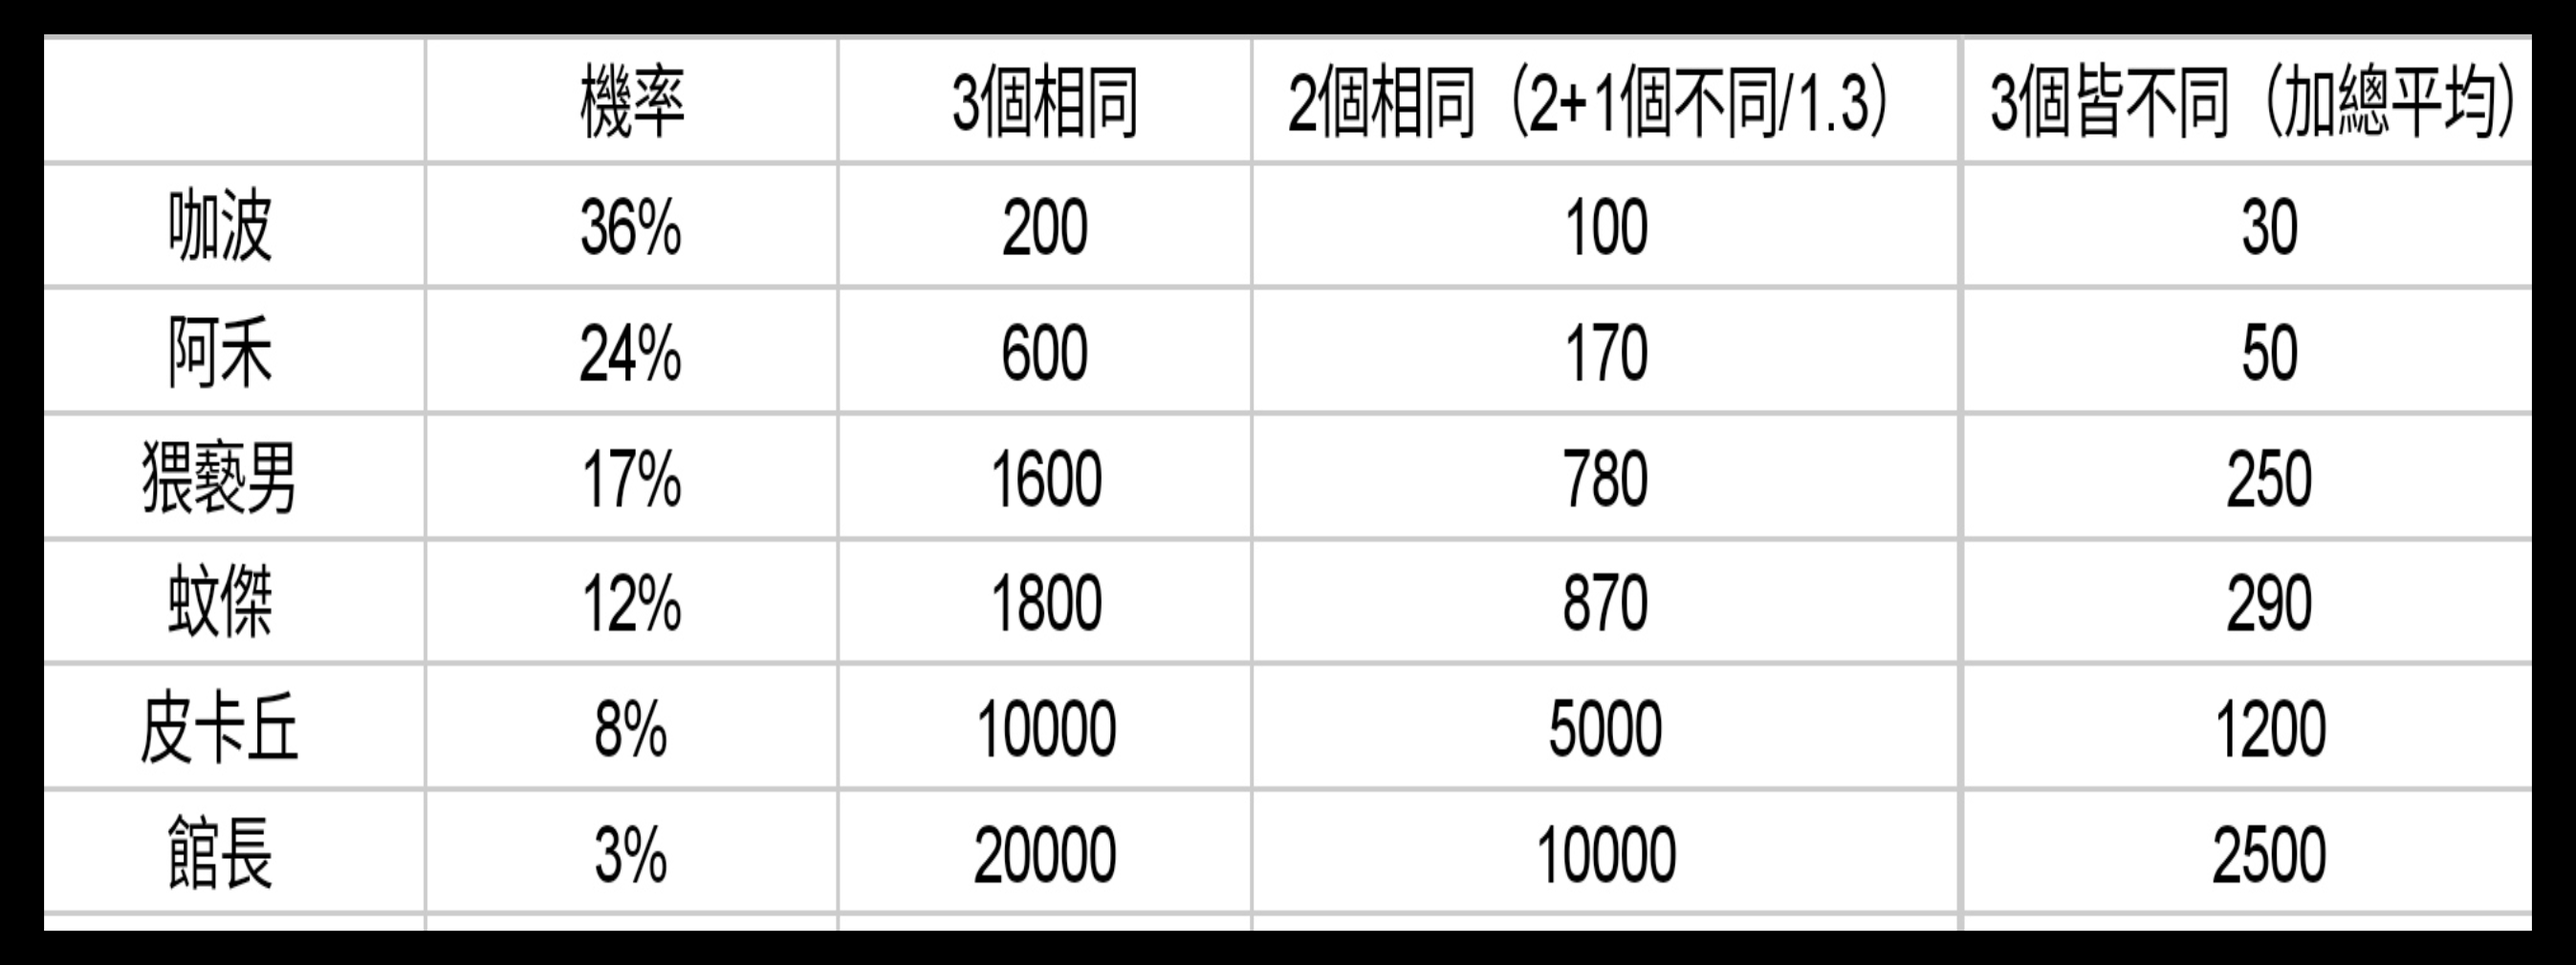
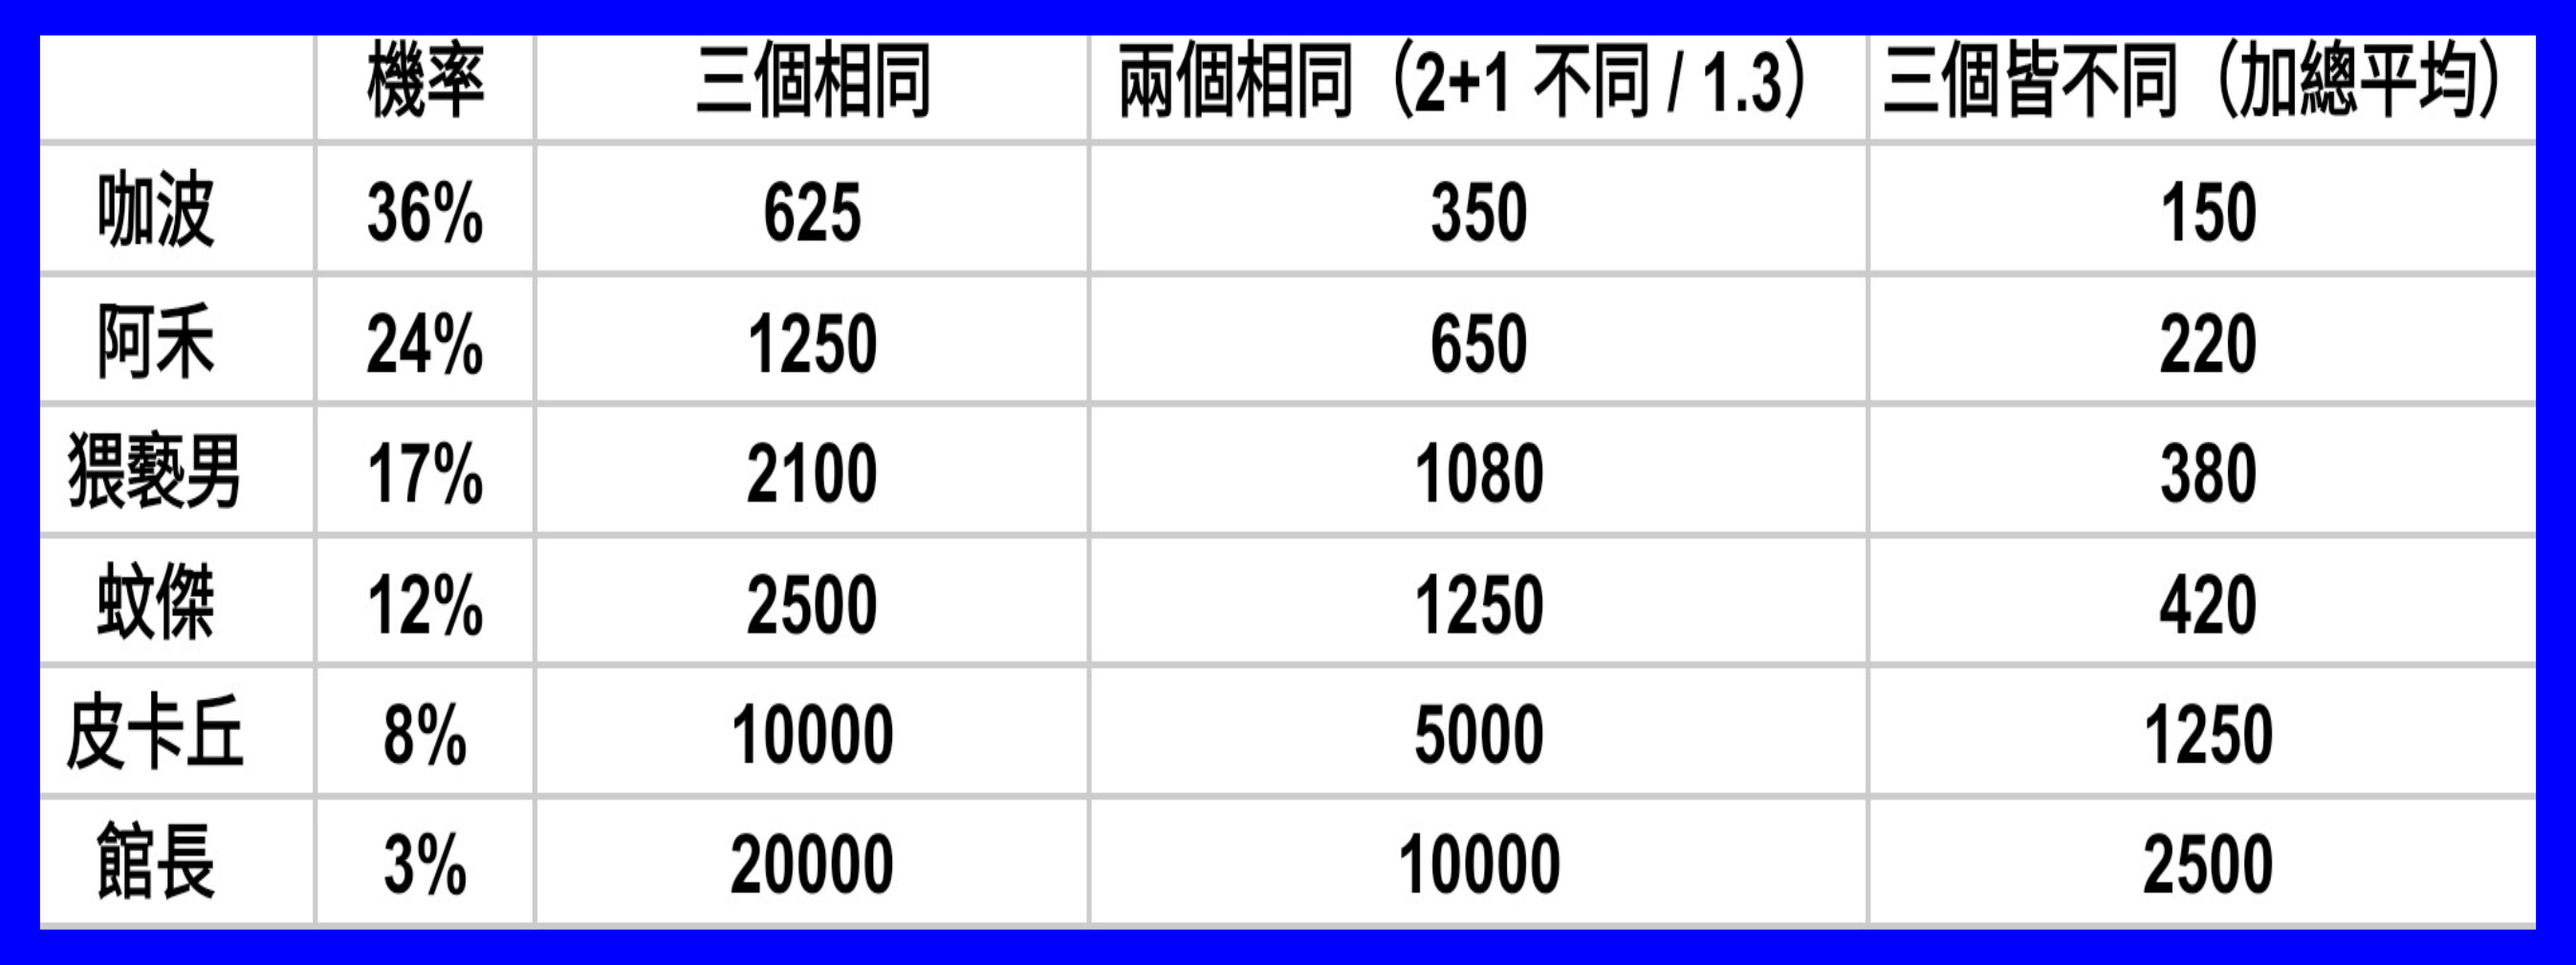
皮卡丘次數顯示

diff --git a/LabaModule/Mod.py b/LabaModule/Mod.py
@@ -139,7 +139,7 @@ def judge_super(win, canvas_Game, all_p, game_running = True, ModEnd = False):
             SuperTimes = 6
             win.after(2800 , lambda : change_hhh(canvas_Game,all_p))
             win.after(3500 , lambda : super_screen(win, canvas_Game))
-            KachuFalse()
+            KachuFalse(canvas_Game)
     
 def super_times(canvas_Game) :
     global SuperHHH, SuperTimes, SuperFirst
@@ -265,7 +265,7 @@ def judge_green(win, canvas_Game, all_p,  game_running = True, Kachu = False):
             win.after(3000, lambda : gss_txt(canvas_Game))
             win.after(2800 , lambda : change_gss(canvas_Game,all_p))
             win.after(3500 , lambda : green_screen(win, canvas_Game))
-            KachuFalse()
+            KachuFalse(canvas_Game)
 
         elif gss_times >= 20 : #咖波累積數達到20
             GreenWei = True
@@ -275,7 +275,7 @@ def judge_green(win, canvas_Game, all_p,  game_running = True, Kachu = False):
             win.after(3000, lambda : gss_txt(canvas_Game))
             win.after(2800 , lambda : change_gss(canvas_Game,all_p, False))
             win.after(3500 , lambda : green_screen(win, canvas_Game))
-            KachuFalse()
+            KachuFalse(canvas_Game)
 
 def green_times(canvas_Game) :
     global GreenWei, GreenTimes, GreenFirst
@@ -307,10 +307,11 @@ def Green_init(CANVA, score, times, ed):
     CANVA.itemconfig("mod_2", text = f"")
 
 #region 皮卡丘充電區(PiKaChu)
-def KachuFalse():
+def KachuFalse(canvas_Game):
     """關掉皮卡丘"""
     global PiKaChu
     PiKaChu = False
+    canvas_Game.itemconfig("mod_1", text = f"")
 
 def change_kachu(canvas_Game, all_p):
     """把皮卡丘變成皮卡丘"""
@@ -349,6 +350,7 @@ def judge_kachu(win, canvas_Game, all_p, times, ed,  game_running = True):
     if not game_running:
         PiKaChu = False
         win.after(2000 , lambda : kachu_screen(win, canvas_Game, False))
+        kachu_times =0
         return
     #遊戲進行
     if ed + 1 >= times:
@@ -358,13 +360,13 @@ def judge_kachu(win, canvas_Game, all_p, times, ed,  game_running = True):
         if kachu_appear:
             PiKaChu = True
             ed -= 5
-            kachu_times += 1
-            print(f"已觸發 {kachu_times} 次皮卡丘充電")
             #關掉其他模式
             judge_super(win, canvas_Game, all_p, False)
             judge_green(win, canvas_Game, all_p, False, True)
             win.after(2500 , lambda : change_kachu(canvas_Game,all_p))
             win.after(3500 , lambda : kachu_screen(win, canvas_Game))
+
+            win.after(3500 , lambda : kachu_time(canvas_Game))
     return ed
     
 def Kachu_init(CANVA, score, times, ed):
@@ -376,9 +378,13 @@ def Kachu_init(CANVA, score, times, ed):
     CANVA.itemconfig("Add", text=f"")
     CANVA.itemconfig("Score", text= f"目前分數：{score}")
     CANVA.itemconfig("Times", text= f"剩餘次數：{times - ed}")
-    CANVA.itemconfig("mod_1", text = f"")
     CANVA.itemconfig("mod_2", text = f"")
 
+def kachu_time(canvas_Game):
+    global kachu_times
+    kachu_times += 1
+    print(f"已觸發 {kachu_times} 次皮卡丘充電")
+    canvas_Game.itemconfig("mod_1", text = f"已觸發 {kachu_times} 次皮卡丘充電", fill = "#FFFF00")
 #endregion 
 
 

diff --git a/Target.py b/Target.py
@@ -64,9 +64,9 @@ def game(i, LOG):
         super_acc = acc_rate([19, 5, 19, 19, 19, 19])
 
         #分數清單
-        same3 = [200 , 600 , 1600 , 1800 , 10000 , 20000]
-        same2 = [100 , 170 , 780 , 870 , 5000 , 10000]
-        same1 = [30 , 50 , 250 , 290 , 1200 , 2500]
+        same3 = [625, 1250, 2100, 2500, 10000, 20000]
+        same2 = [350, 650, 1080, 1250, 5000, 10000]
+        same1 = [150, 220, 380, 420, 1250, 2500]
 
         #endregion
         

diff --git a/MAX.py b/MAX.py
@@ -64,9 +64,9 @@ def game(i, LOG):
       super_acc = acc_rate([19, 5, 19, 19, 19, 19])
 
       #分數清單
-      same3 = [200 , 600 , 1600 , 1800 , 10000 , 20000]
-      same2 = [100 , 170 , 780 , 870 , 5000 , 10000]
-      same1 = [30 , 50 , 250 , 290 , 1200 , 2500]
+      same3 = [625, 1250, 2100, 2500, 10000, 20000]
+      same2 = [350, 650, 1080, 1250, 5000, 10000]
+      same1 = [150, 220, 380, 420, 1250, 2500]
 
       #endregion
       
